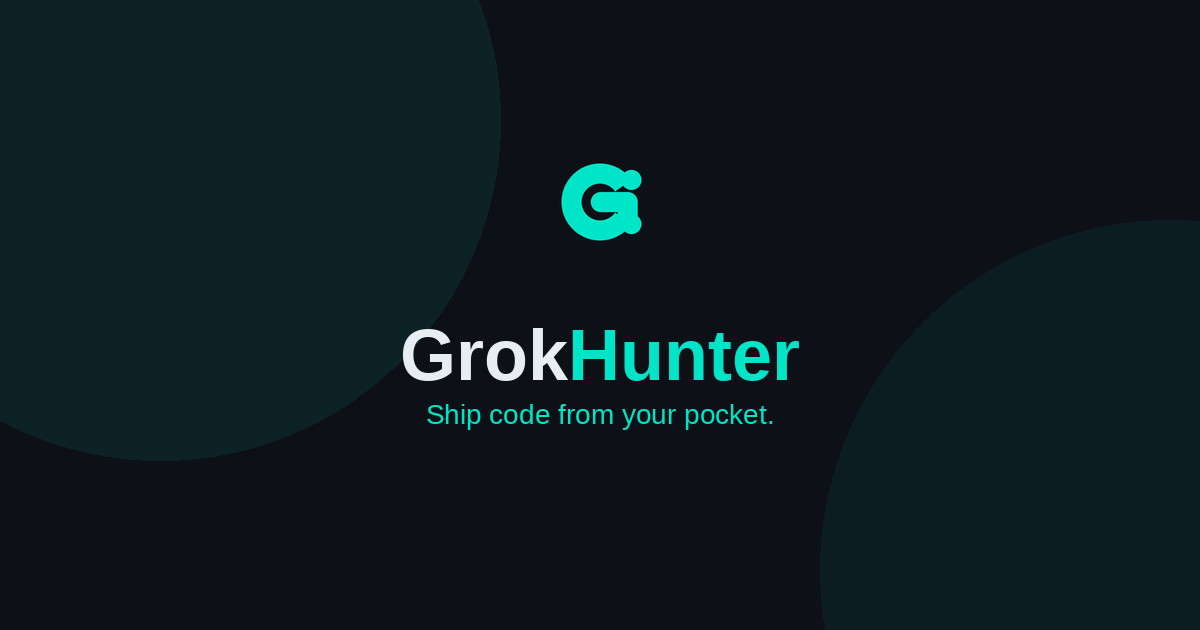
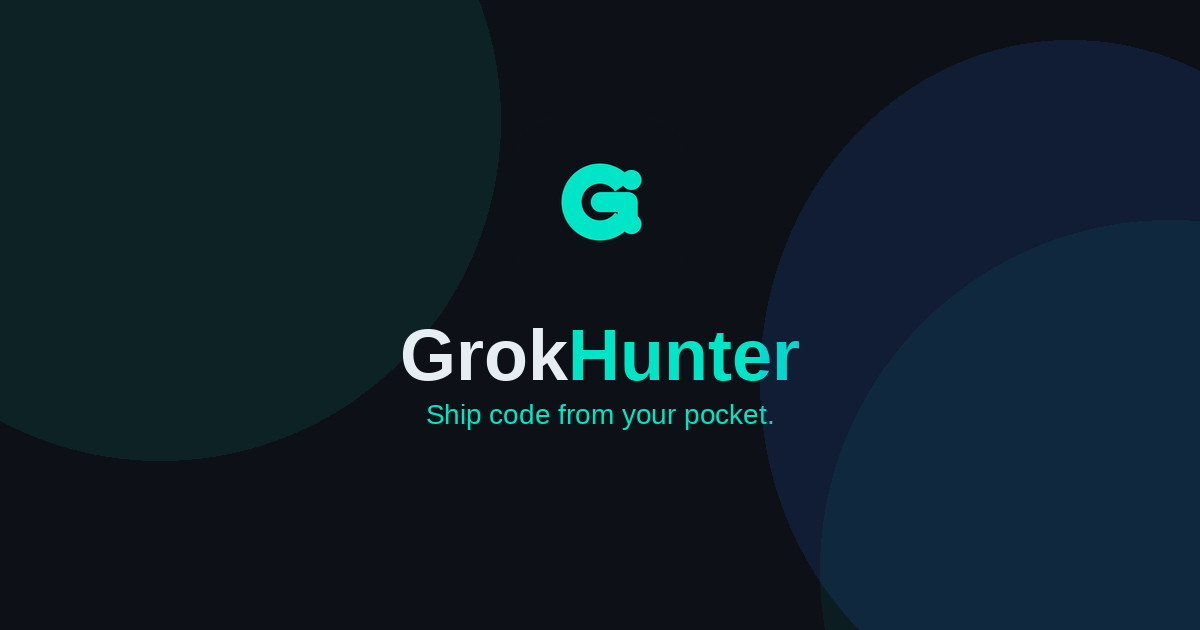
Shout out Kali Linux with official blue in the color scheme.
Keep Grok cyan as the primary accent and add Kali-Dark #2777FF for
NetHunter chips, hero wash, credits, and a share-card glow.

Changed region(s): [[0.6167, 0.0603, 1.0, 1.0]]

diff --git a/website/index.html b/website/index.html
@@ -140,12 +140,13 @@
                 </svg>
                 Rootless · v1.0.9
               </span>
+              <a class="chip chip-kali" href="https://www.kali.org/" target="_blank" rel="noopener noreferrer">Kali Linux</a>
               <span class="chip">No root required</span>
               <span class="chip">Grok Build 1.0.5</span>
               <span class="chip">Agents · personas · roles</span>
             </div>
             <h1>
-              Kali NetHunter Rootless
+              <span class="kali">Kali</span> NetHunter Rootless
               <span class="accent">powered by Grok Build</span>
             </h1>
             <p class="lead">
@@ -859,7 +860,7 @@ grokhunter credits             # upstream attribution</code></pre>
               <div class="arch-num">2</div>
               <div class="arch-card"><strong>Termux</strong><span>F-Droid or GitHub (not Play Store)</span></div>
             </div>
-            <div class="arch-layer" style="padding-left: 24px">
+            <div class="arch-layer arch-layer-kali" style="padding-left: 24px">
               <div class="arch-num">3</div>
               <div class="arch-card"><strong>proot → Kali NH</strong><span>nano / mini / full rootfs</span></div>
             </div>
@@ -999,7 +1000,7 @@ grokhunter credits             # upstream attribution</code></pre>
                     for <code>nh-x11</code>
                   </td>
                 </tr>
-                <tr>
+                <tr class="credits-kali">
                   <td>
                     <strong
                       ><a href="https://www.kali.org/" target="_blank" rel="noopener noreferrer">Kali Linux</a></strong
@@ -1088,7 +1089,7 @@ grokhunter credits             # upstream attribution</code></pre>
             ·
             <a href="https://termux.dev" target="_blank" rel="noopener noreferrer">Termux</a>
             ·
-            <a href="https://www.kali.org/" target="_blank" rel="noopener noreferrer">Kali</a>/<a href="https://www.offsec.com/" target="_blank" rel="noopener noreferrer">OffSec</a>
+            <a class="kali" href="https://www.kali.org/" target="_blank" rel="noopener noreferrer">Kali</a>/<a href="https://www.offsec.com/" target="_blank" rel="noopener noreferrer">OffSec</a>
             ·
             <a href="https://x.ai" target="_blank" rel="noopener noreferrer">xAI</a>
             ·

diff --git a/website/styles.css b/website/styles.css
@@ -1,4 +1,4 @@
-/* GrokHunter brand — charcoal + cyan */
+/* GrokHunter brand — charcoal + Grok cyan + Kali blue */
 :root {
   --bg: #0D1117;
   --bg-elevated: #161B22;
@@ -12,6 +12,9 @@
   --accent: #00E5C7;
   --accent-dim: #00B8A0;
   --accent-fg: #04201C;
+  --kali: #2777FF;
+  --kali-dim: #1A5CD6;
+  --kali-fg: #F4F8FF;
   --ice: #E6EDF3;
   --ice-fg: #0D1117;
   --signal: #5EEAD4;
@@ -398,14 +401,14 @@ button {
 .hero-wash {
   background:
     radial-gradient(
-      ellipse 70% 45% at 50% -8%,
-      color-mix(in oklab, var(--accent) 9%, transparent),
+      ellipse 55% 45% at 18% -8%,
+      color-mix(in oklab, var(--accent) 11%, transparent),
       transparent 58%
     ),
     radial-gradient(
-      ellipse 35% 28% at 88% 18%,
-      color-mix(in oklab, var(--ice) 4%, transparent),
-      transparent 50%
+      ellipse 50% 40% at 88% 8%,
+      color-mix(in oklab, var(--kali) 14%, transparent),
+      transparent 55%
     );
 }
 
@@ -468,6 +471,26 @@ button {
   background: color-mix(in oklab, var(--accent) 8%, var(--bg-elevated));
   color: var(--accent);
   font-family: var(--font-mono);
+}
+
+.chip-kali {
+  border-color: color-mix(in oklab, var(--kali) 40%, var(--border));
+  background: color-mix(in oklab, var(--kali) 10%, var(--bg-elevated));
+  color: var(--kali);
+  text-decoration: none;
+}
+
+a.chip-kali:hover {
+  border-color: var(--kali);
+  color: var(--kali-fg);
+}
+
+.kali {
+  color: var(--kali);
+}
+
+h1 .kali {
+  display: inline;
 }
 
 h1 {
@@ -1112,6 +1135,27 @@ td:last-child {
 .arch-card span {
   font-size: 0.875rem;
   color: var(--fg-muted);
+}
+
+.arch-layer-kali .arch-num {
+  border-color: color-mix(in oklab, var(--kali) 45%, var(--border-strong));
+  color: var(--kali);
+}
+
+.arch-layer-kali .arch-card {
+  border-color: color-mix(in oklab, var(--kali) 28%, var(--border));
+}
+
+.arch-layer-kali .arch-card strong {
+  color: var(--kali);
+}
+
+.credits-kali a {
+  color: var(--kali);
+}
+
+.credits-kali a:hover {
+  color: var(--kali-fg);
 }
 
 .mini-grid {

diff --git a/README.md b/README.md
@@ -12,6 +12,7 @@
   <a href="https://github.com/FineComputer14451/GrokHunter/releases/latest"><img alt="Release" src="https://img.shields.io/github/v/release/FineComputer14451/GrokHunter?label=release&color=00E5C7&labelColor=0D1117"></a>
   <a href="https://github.com/FineComputer14451/GrokHunter/actions/workflows/smoke.yml"><img alt="Smoke" src="https://img.shields.io/github/actions/workflow/status/FineComputer14451/GrokHunter/smoke.yml?branch=main&label=smoke&labelColor=0D1117"></a>
   <a href="https://finecomputer14451.github.io/GrokHunter/"><img alt="Pages" src="https://img.shields.io/badge/site-live-00E5C7?labelColor=0D1117"></a>
+  <a href="https://www.kali.org/"><img alt="Kali Linux" src="https://img.shields.io/badge/Kali-NetHunter-2777FF?labelColor=0D1117"></a>
 </p>
 
 Turn Termux + proot Kali into a Linux development environment on your phone, with [Grok](https://x.ai/cli) as an on-device pair programmer. **No root required.**

diff --git a/website/README.md b/website/README.md
@@ -38,4 +38,4 @@ Workflow: [`.github/workflows/deploy-website.yml`](../.github/workflows/deploy-w
 2. Push `website/**` to `main` **or** **Actions → Deploy website → Run workflow**
 3. URL: https://finecomputer14451.github.io/GrokHunter/
 
-No Node/npm build — pure static HTML/CSS/JS. Brand tokens: `styles.css` (cyan `#00E5C7`). Assets: `website/assets/` (favicon, lockup, social preview).
+No Node/npm build — pure static HTML/CSS/JS. Brand tokens: `styles.css` (Grok cyan `#00E5C7` · Kali blue `#2777FF`). Assets: `website/assets/` (favicon, lockup, social preview).

diff --git a/CHANGELOG.md b/CHANGELOG.md
@@ -10,6 +10,7 @@
 - New share cards: `og.jpg` 1200×630 (link preview) and `x-banner.jpg` 1200×264 (X feed).
 - README hero uses the GH icon + charcoal/cyan shields (drop the noisy lockup).
 - Rebuilt all raster brand assets from a geometric G mark (crisp PNG/SVG, no photographic lockups).
+- Color scheme shout-out to Kali Linux: official blue `#2777FF` alongside Grok cyan.
 
 ### Lab specialists
 

diff --git a/branding/README.md b/branding/README.md
@@ -20,4 +20,4 @@ Drawn as real PNG/SVG (not photographic AI lockups).
 
 Product site copies live under `website/assets/` (GitHub Pages root).
 
-Colors: charcoal `#0D1117` · cyan `#00E5C7` · text `#E6EDF3`.
+Colors: charcoal `#0D1117` · Grok cyan `#00E5C7` · Kali blue `#2777FF` · text `#E6EDF3`.
